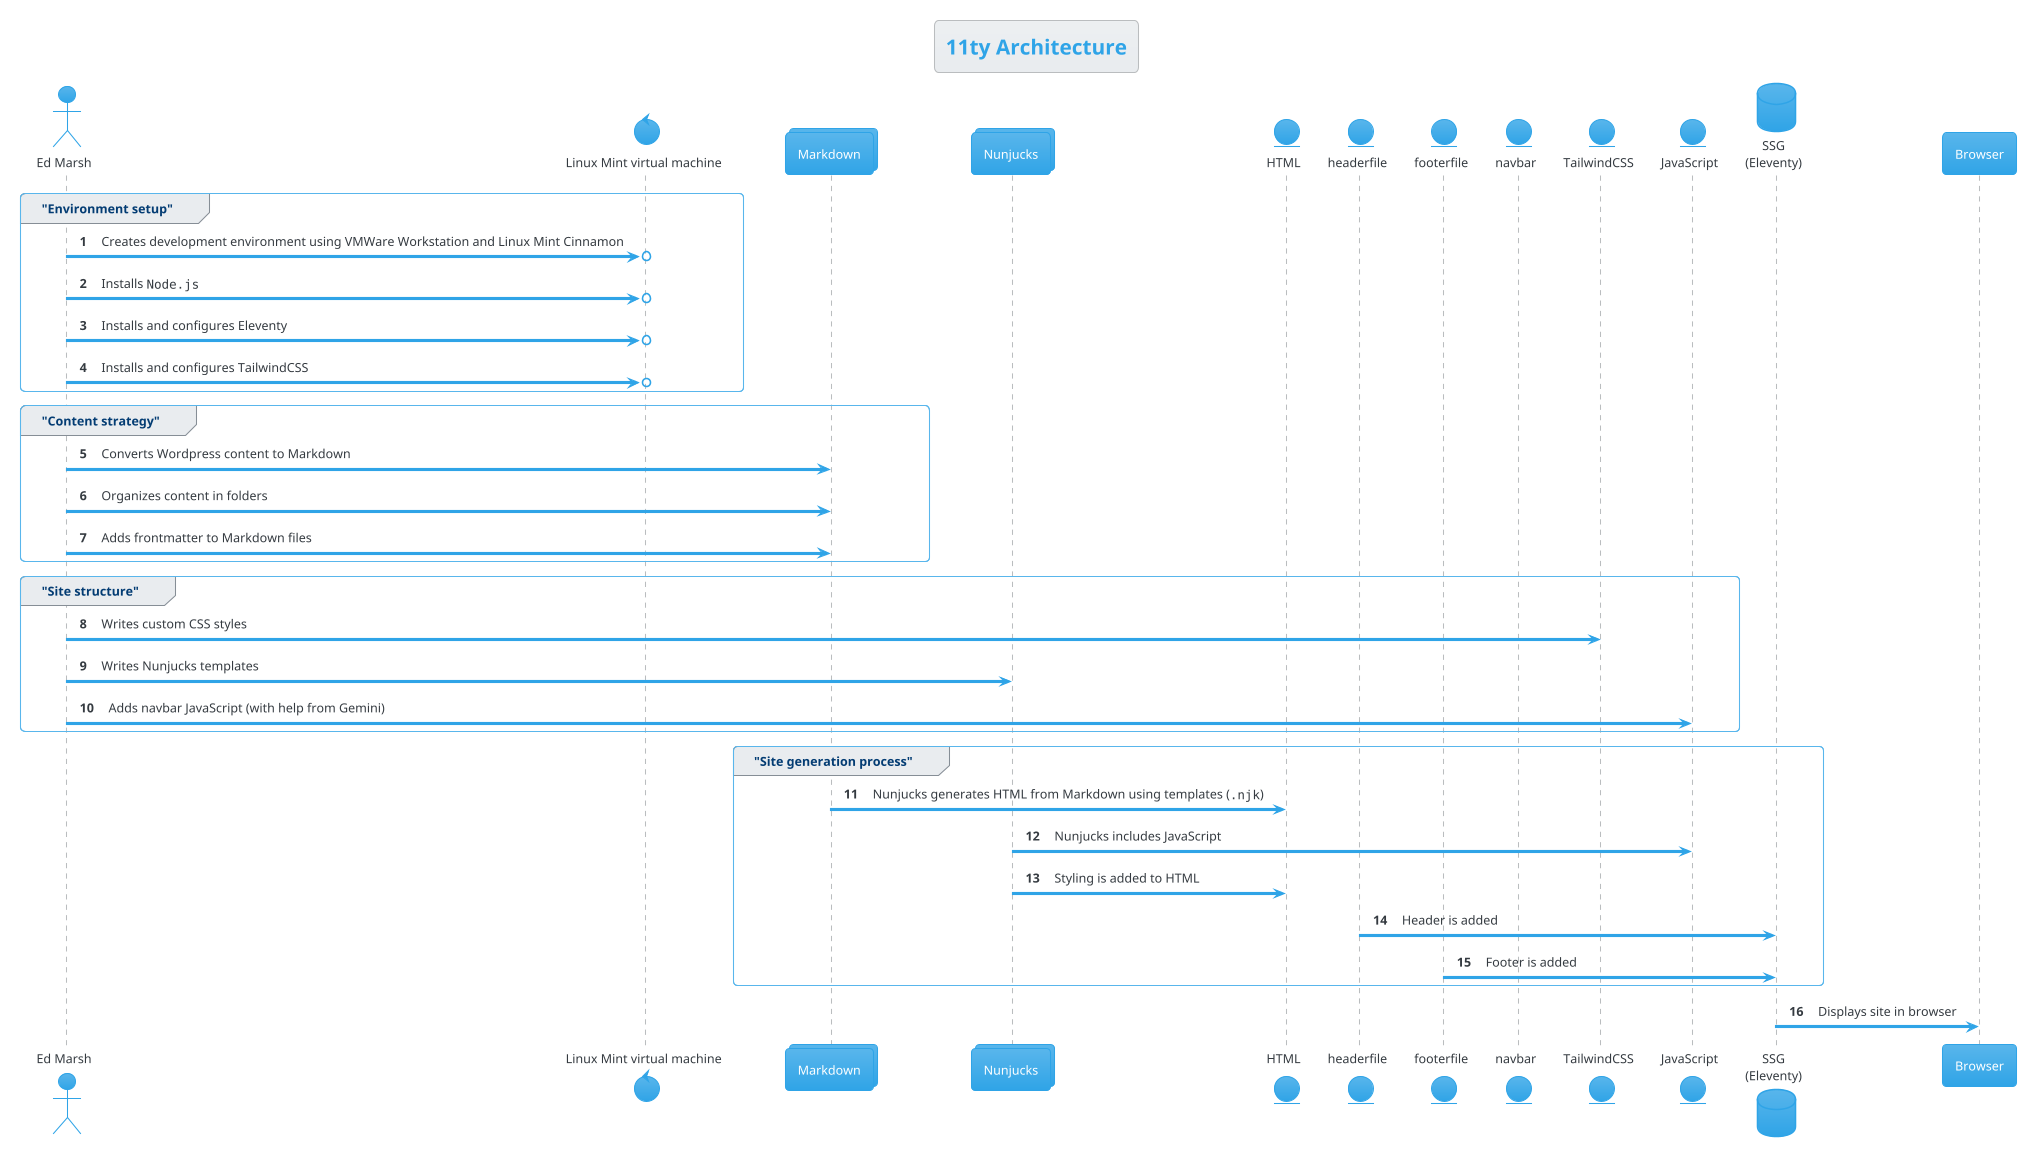
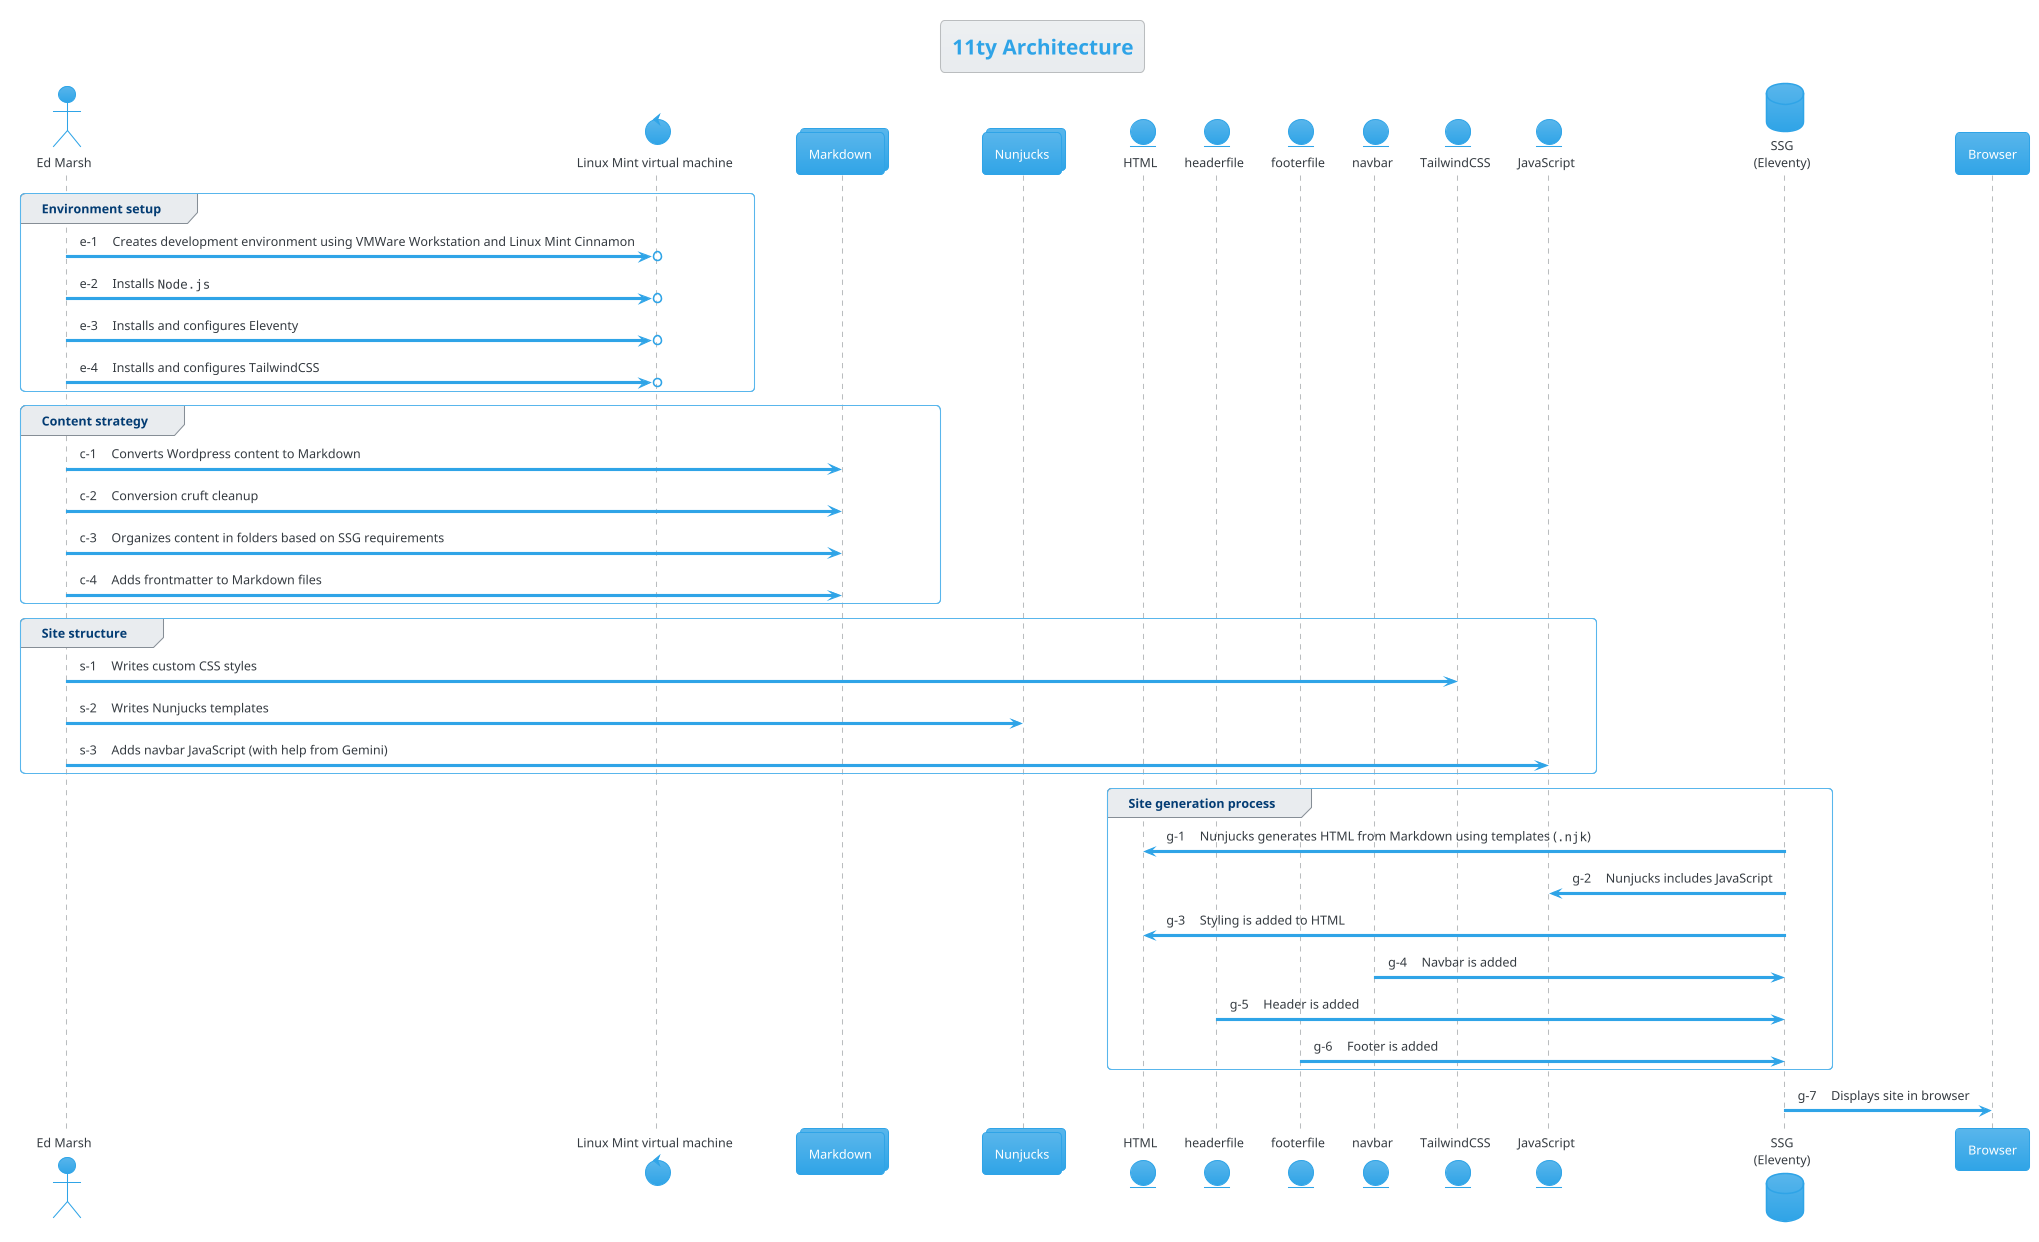
fun with sequence diagrams

diff --git a/content/move-to-static-site/index.md b/content/move-to-static-site/index.md
@@ -6,3 +6,10 @@ date: "2024-11-24"
 This series documents the experience I had moving from an old, self-hosted Wordpress site with a theme that I didn't update for 10 years.
 
 This is my journey moving to a static site generator (SSG).
+
+![SSG site architecture](11ty-architecture.png)
+
+In reality, this is how this process actually, *kinda*, happened:
+
+
+![The reality of learning SSG site architecture](11ty-architecture-reality.png)
